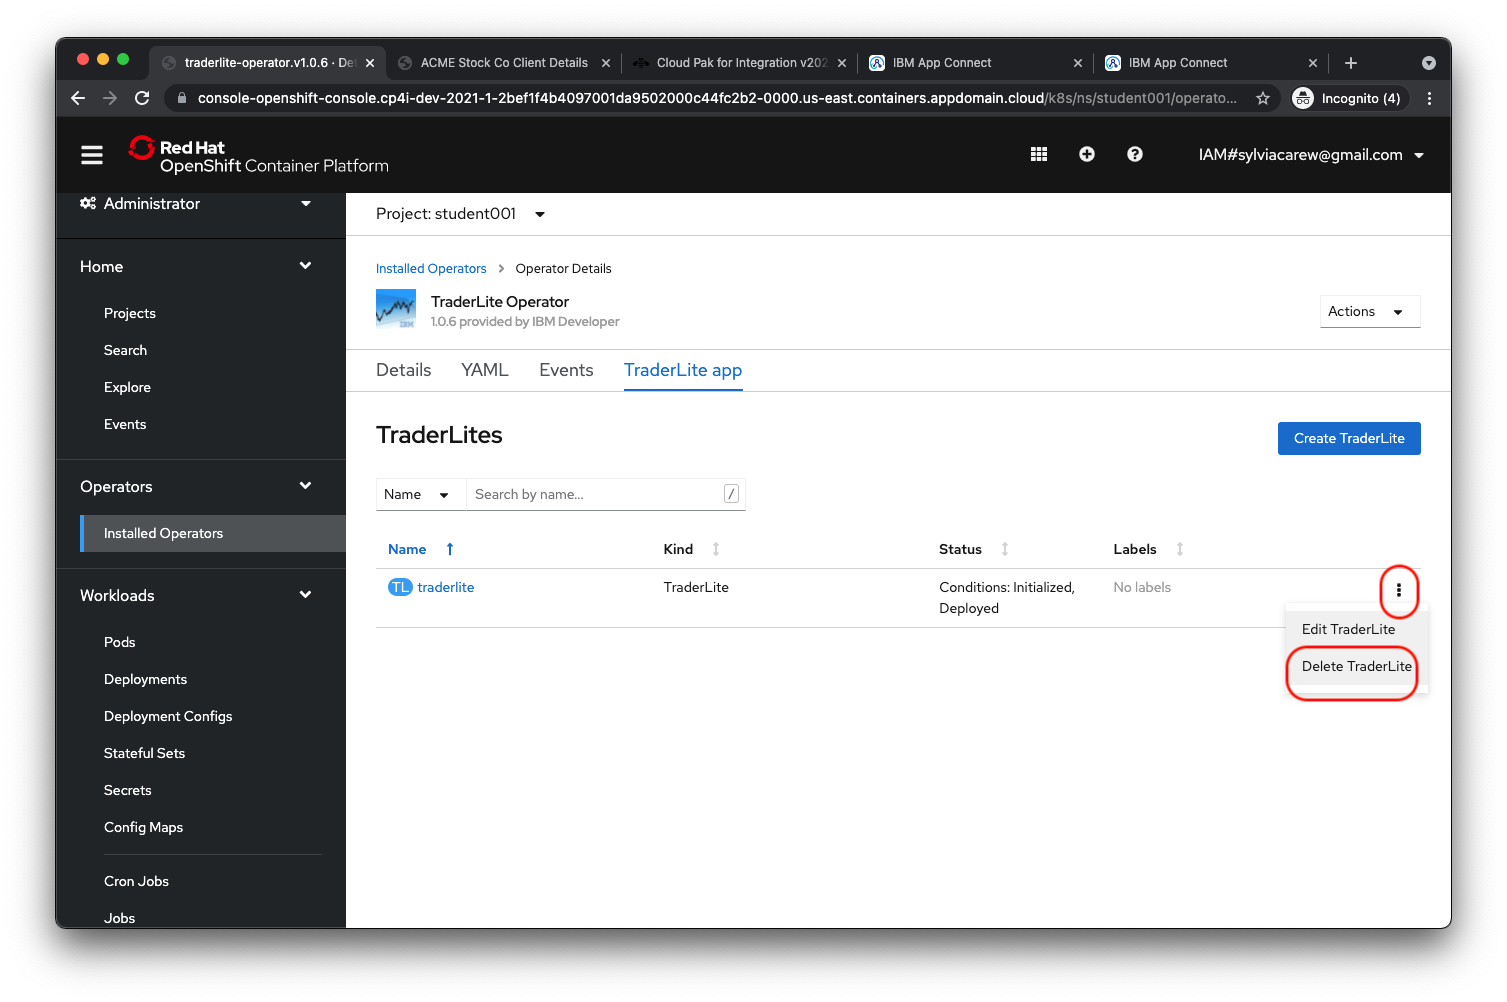
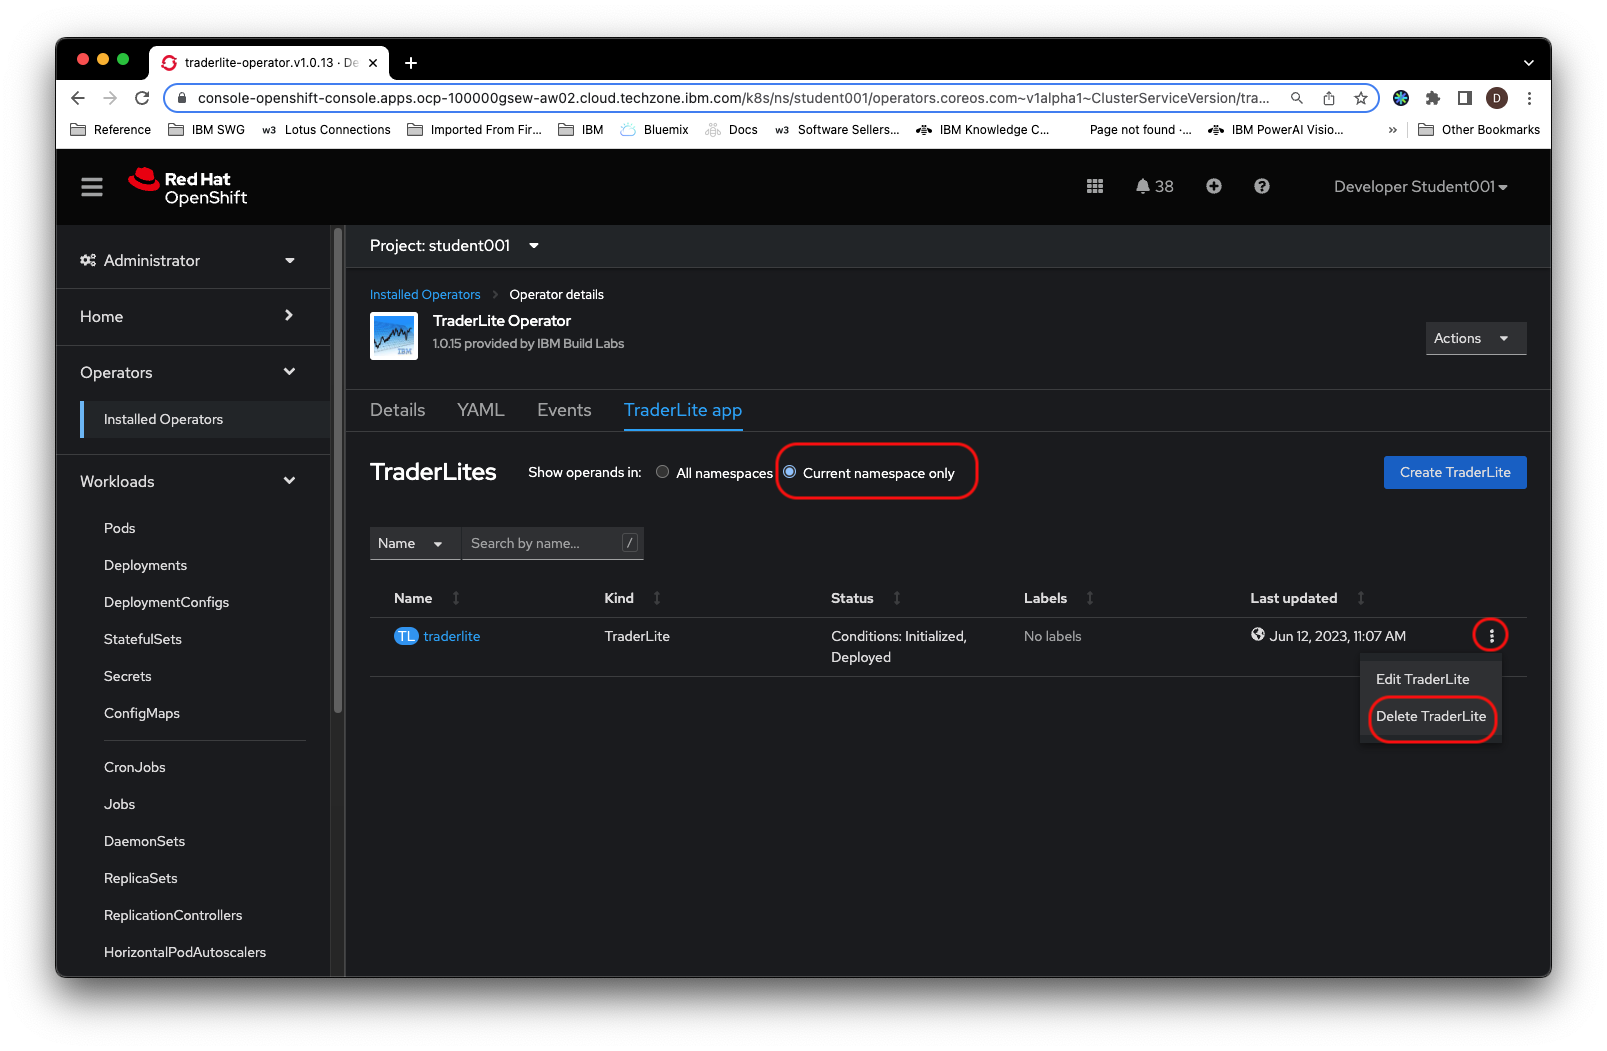
update lab1 lab2 content issue

diff --git a/content/CP4I/101.es.md b/content/CP4I/101.es.md
@@ -163,7 +163,7 @@ En el diseñador de API, tiene la posibilidad de probar la API inmediatamente de
 
 [![](images/invoke-api.png)](images/invoke-api.png)
 
-4.9 Si se trata de la primera prueba de la API, es posible que aparezca una excepción de certificado. Simplemente haga clic en el enlace proporcionado. Esto abrirá una nueva pestaña y le permitirá hacer clic para aceptar el certificado autofirmado. **Nota**: Deténgase cuando obtenga un código de error `401` en la nueva pestaña.
+4.9 Si se trata de la primera prueba de la API, es posible que aparezca una excepción de certificado. Simplemente haga clic en el enlace proporcionado. Esto abrirá una nueva pestaña y le permitirá hacer clic para aceptar el certificado autofirmado. **Nota**: Deténgase cuando obtenga un código de error `401` en la nueva pestaña. (Si no puede abrirlo, verifique dos veces si está utilizando el navegador web Chrome)
 
 [![](images/cert-exception.png)](images/cert-exception.png)
 

diff --git a/content/CP4I/101.md b/content/CP4I/101.md
@@ -167,7 +167,7 @@ In the API designer, you have the ability to test the API immediately after crea
 
 [![](images/invoke-api.png)](images/invoke-api.png)
 
-4.9 If this is the first test of the API, you may see a certificate exception. Simply click on the link provided. This will open a new tab and allow you to click through to accept the self signed certificate. **Note**: Stop when you get a `401` error code in the new tab.
+4.9 If this is the first test of the API, you may see a certificate exception. Simply click on the link provided. This will open a new tab and allow you to click through to accept the self signed certificate. **Note**: Stop when you get a `401` error code in the new tab. (If you cannot open it please double check if you are using Chrome web browser)
 
 [![](images/cert-exception.png)](images/cert-exception.png)
 

diff --git a/content/CP4I/100.es.md b/content/CP4I/100.es.md
@@ -6,6 +6,8 @@ updated: 2023-05-25
 
 # 100: Antes del trabajo
 
+> **Note:** API Connect se instala con certificados autofirmados que son incompatibles con algunas versiones del navegador Chrome. Le recomendamos que complete estos laboratorios con Firefox, Safari o Edge.
+
 ## Cloud Pak for Integration Platform Navigator
 
 El Cloud Pak for Integration Platform Navigator es una aplicación web que le permite acceder a todos los componentes de CP4I. Su instructor le proporcionará una URL para el CP4I Platform Navigator y un nombre de usuario y contraseña. Usted necesitará este enlace para acceder a todos los componentes de CP4I que utilizará en los laboratorios. Le recomendamos que lo mantenga abierto en una pestaña separada.

diff --git a/content/CP4I/100.md b/content/CP4I/100.md
@@ -6,6 +6,8 @@ updated: 2023-05-25
 
 # 100: Environment Setup
 
+> **Note:** API Connect is installed with self signed certificates that are incompatible with some versions of the Chrome browser. We recommend that you complete these labs using Firefox, Safari or Edge.
+
 ## Cloud Pak for Integration Platform Navigator
 
 The Cloud Pak for Integration Platform Navigator is a web based application that allows you to access all the components in CP4I. Your instructor will provider you with a URL for the CP4I Platform Navigator and a username and password . You will need this link to access all this CP4I components that you will use in the labs. We recommend that you keep it open in a separate tab.

diff --git a/content/CP4I/102.es.md b/content/CP4I/102.es.md
@@ -47,7 +47,7 @@ Si ha completado los laboratorios de integración de API Connect y/o Salesforce,
 
 [![](images/traderlite-crd.png)](images/traderlite-crd.png)
 
-1.3 Haga clic en los 3 periodos a la derecha del CRD TraderLite existente y seleccione **Eliminar TraderLite** en el menú contextual.
+1.3 Seleccione Solo espacio de nombres actual. Haga clic en los 3 períodos a la derecha del CRD de TraderLite existente y seleccione Eliminar TraderLite en el menú contextual.
 
 [![](images/select-traderlite-crd2.png)](images/select-traderlite-crd2.png)
 

diff --git a/content/CP4I/102.md b/content/CP4I/102.md
@@ -55,7 +55,7 @@ If you've completed the API Connect and/or the Salesforce integration labs then 
 
 [![](images/traderlite-crd.png)](images/traderlite-crd.png)
 
-1.3 Click on the 3 periods to the right of the existing TraderLite CRD and select **Delete TraderLite** from the context menu.
+1.3 Select Current namespace only. Click on the 3 periods to the right of the existing TraderLite CRD and select Delete TraderLite from the context menu.
 
 [![](images/select-traderlite-crd2.png)](images/select-traderlite-crd2.png)
 
